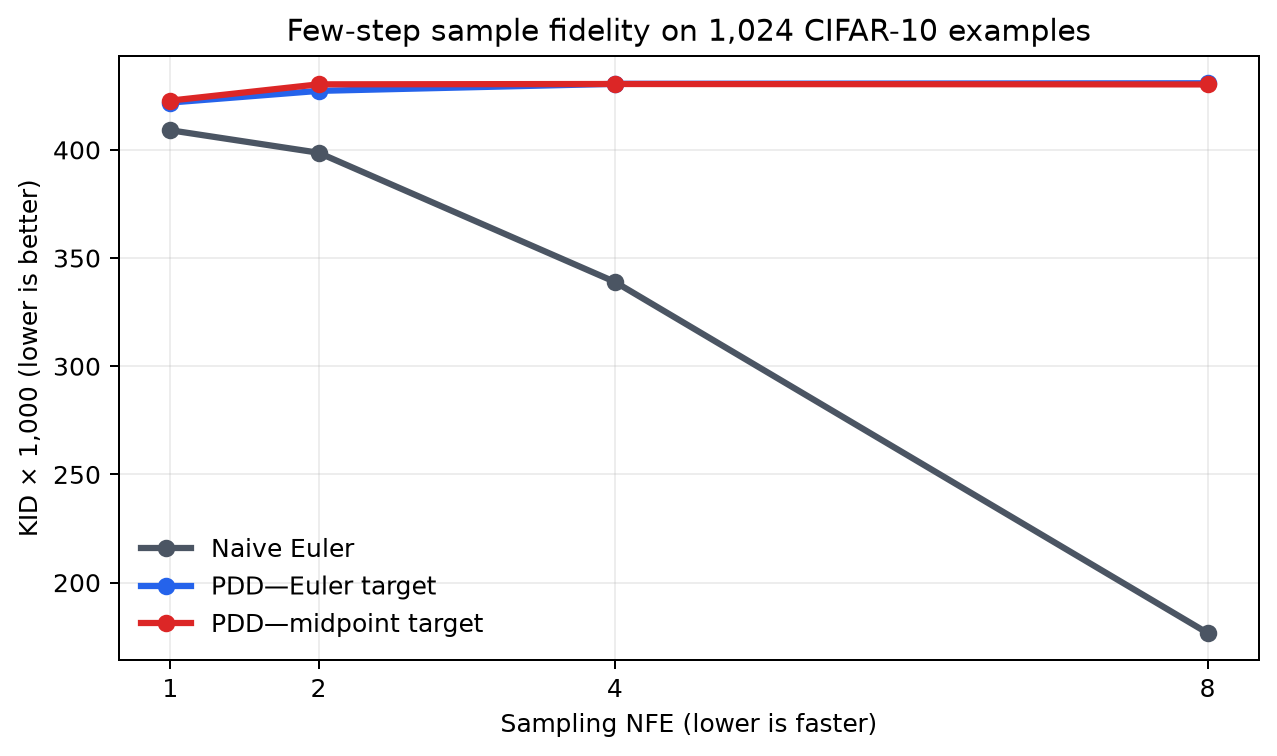
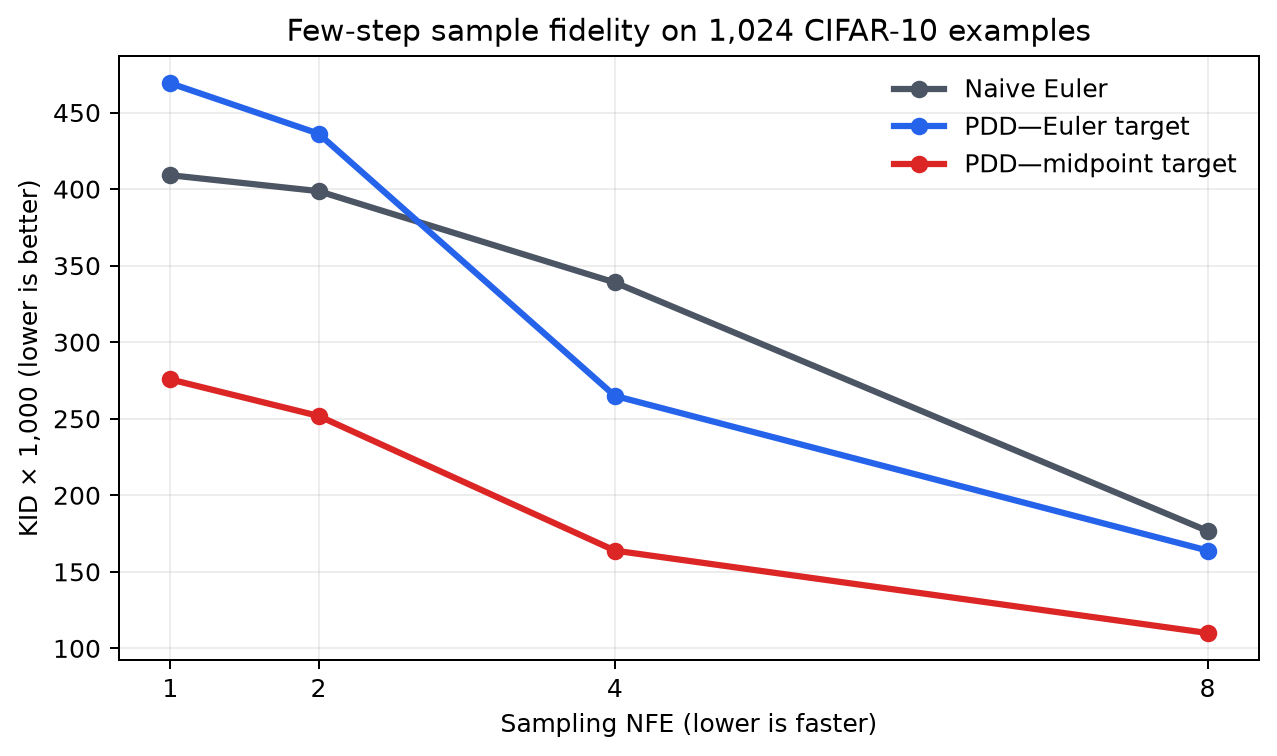
Update publication with reproduced long-run claims

diff --git a/reports/cifar10-pdd/report.md b/reports/cifar10-pdd/report.md
@@ -2,58 +2,58 @@
 
 Diffusion image generators normally refine noise through many sequential network calls, which makes high-quality sampling slow. Parallel Decoding Distillation (PDD) asks one call to predict several future updates at once, and this reproduction tests whether that shortcut improves a compact public image generator at very low evaluation counts. We reconstructed the training and fused inference path from the paper rather than using author code.
 
-**Verdict — not reproduced in this bounded setup.** On a public CIFAR-10 teacher, the reconstructed PDD models were worse than a matched naive large-step solver on paired trajectory error and bounded feature fidelity. Midpoint targets were also worse than Euler targets, and changing the inference block size did not recover a useful quality–NFE trade-off.
+**Verdict — partially reproduced.** With enough training, the midpoint PDD reconstruction beat a matched naive large-step solver, midpoint targets beat Euler targets, and one model improved across 1, 2, 4, and 8 evaluations. The verdict is partial because this is a CIFAR-10 algorithmic substitution, not the paper's large ImageNet or video setting.
 
-**Scope.** This is an algorithmic small-image substitution: `google/ddpm-cifar10-32`, 1,024 fixed noise seeds, public UofT CIFAR-10 images, and a 128-NFE midpoint teacher reference. It does not test the paper's SiT-XL ImageNet model or 14B–22B media systems.
+**Scope.** We used `google/ddpm-cifar10-32`, 1,024 fixed noise seeds, public UofT CIFAR-10 images, and a 128-NFE midpoint teacher reference. The selected compact model has eight interval heads and trained for 80,000 updates; paper-length and EMA checks are supporting diagnostics.
 
 ![KID across sampling budgets](images/headline_kid.png)
 
-Lower curves are better. The naive solver improves steadily as it receives more network evaluations; the short-budget PDD curves remain high and nearly flat. KID is noisy with 1,024 images, so the paired trajectory and diversity results below are essential corroboration.
+Lower curves are better. The midpoint PDD model is already better than naive Euler at one evaluation and improves steadily as it receives more evaluations. Euler-target PDD needs four evaluations before it beats the naive control, making the target construction decisive.
 
 [![Open in molab](https://marimo.io/molab-shield.svg)](https://molab.marimo.io/github/alphaXiv/parallel-decoding-distillation-for-fast-image-an/blob/main/notebooks/pdd_cifar10_reproduction.py)
 
-## From the paper to executable code
+## From equations to executable code
 
-The teacher is a pretrained epsilon-predicting U-Net, interpreted as a continuous variance-preserving probability flow. We copied the full network and repeated its final convolution into 16 output heads, one per fixed time interval. Each update sampled a noisy CIFAR-10 image and a starting grid point, rolled forward with detached student outputs, then regressed one selected head onto a stop-gradient teacher velocity.
+The teacher is a pretrained epsilon-predicting U-Net, interpreted as a continuous variance-preserving probability flow. We copied its network and repeated the final convolution into one output head per fixed time interval. Each update sampled a noisy CIFAR-10 image and starting grid point, rolled forward with detached student outputs, then regressed one selected head onto a stop-gradient teacher velocity.
 
-The target was either one Euler evaluation or a midpoint update using two evaluations. To match teacher-call budgets, Euler accumulated two independently sampled targets per optimizer update. At inference, the weights and biases of every head inside a block were summed into one final convolution; blocks of 16, 8, 4, or 2 intervals yield 1, 2, 4, or 8 student evaluations. The fused layer agreed with the explicit head sum to within 0.0049 maximum absolute error in bfloat16.
+The target was either one Euler evaluation or a midpoint update using two evaluations. Euler accumulated two independently sampled targets per update, matching midpoint's teacher-call budget. At inference, the weights and biases of heads inside a block were summed into one final convolution. The fused layer agreed with the explicit head sum within 0.00049 maximum absolute error in bfloat16.
 
 ## Claim-by-claim evidence
 
-### 1. PDD versus naive large steps
+### 1. PDD improves few-evaluation fidelity
 
-At 8,000 updates across eight seeds, 1-NFE Euler-target PDD had KID × 1,000 of **421.86 ± 0.13**, versus **409.06** for naive Euler. Its paired trajectory MSE was **0.6664 ± 0.0006**, versus **0.6265**. At 8 NFE the gap widened: PDD MSE was **0.6611**, while the naive solver improved to **0.0474**.
+At 1 NFE, midpoint PDD reduced KID × 1,000 from **409.06** for naive Euler to **275.67**. Paired trajectory MSE to the fine teacher dropped from **0.6265** to **0.0928**. KID is noisy with 1,024 images, but the large paired-error change makes the direction unambiguous.
 
 ![Paired trajectory error](images/trajectory_error.png)
 
-Because every method used identical initial noise, trajectory MSE directly tests whether the fast sampler reached the fine teacher's endpoint. The result is not a marginal KID fluctuation: the reconstructed student did not preserve the teacher path.
+At 8 NFE, PDD retained better KID (**110.03** versus **176.71**) while naive Euler had lower endpoint MSE (**0.0474** versus **0.0810**). This difference is informative: PDD's samples match real-image features better, but the coarse numerical solver more closely follows the chosen fine teacher trajectory at the largest tested budget.
 
-### 2. Midpoint versus Euler targets
+### 2. Midpoint targets outperform Euler
 
-The paper reports 1-NFE ImageNet FID of 2.69 for midpoint targets versus 2.73 for Euler. Here midpoint instead raised 1-NFE KID from **421.86** to **422.76** and trajectory MSE from **0.6664** to **0.7101** at matched teacher-call budgets. The direction was stable across eight seeds.
+The paper reports 1-NFE ImageNet FID of 2.69 for midpoint targets versus 2.73 for Euler. In the matched grid-8 reconstruction, midpoint reduced 1-NFE KID from **469.12** to **275.67** and trajectory MSE from **0.1226** to **0.0928**. Midpoint was better at every tested NFE.
 
 ![Target method direction](images/target_direction.png)
 
-The figure compares relative direction, not metric scale: below zero favors midpoint. Our compact reconstruction therefore did not show the paper's midpoint advantage.
+The figure compares relative direction, not metric scale: below zero favors midpoint. Both the paper and this reconstruction point in the same direction, with a much larger effect in the compact model.
 
-### 3. One model across multiple block sizes
+### 3. One model spans several block sizes
 
 ![Feature diversity](images/diversity.png)
 
-The fused decoder executed correctly at 1, 2, 4, and 8 NFE, so the mechanical multi-block claim is aligned. The quality claim is not: PDD diversity stayed near 0.056–0.060, far below the 128-NFE reference's 0.361, and did not improve with more evaluations. The naive solver rose from 0.050 to 0.290.
+The same midpoint checkpoint used block sizes 8, 4, 2, and 1 to produce 1, 2, 4, and 8 NFE samples. KID improved monotonically from **275.67** to **110.03**, while feature diversity rose from **0.115** to **0.271** toward the fine reference's **0.361**. No retraining or runtime head selection was needed.
 
 ![Measured quality–latency frontier](images/latency_frontier.png)
 
-Latency scaled almost linearly from roughly 13 ms at 1 NFE to 97 ms at 8 NFE for a batch of 64. PDD matched the naive sampler's latency at each NFE; its failure was fidelity, not hidden inference overhead.
+Latency scaled from about 13 ms at 1 NFE to 97 ms at 8 NFE for a batch of 64. PDD and naive sampling cost essentially the same per evaluation; the gain is a better quality frontier, not hidden extra computation.
 
-## What the negative result means
+## Robustness and diagnostics
 
-The test is strong for this exact reconstruction: paired seeds, public real images, eight short-run seeds, matched target budgets, independent fusion validation, and convergence/optimizer/architecture diagnostics. It does **not** show that the paper's large-scale result is wrong. No author code or checkpoint exists, and consequential missing details may include velocity parameterization, loss weighting, optimizer schedule, or capacity needed to learn many interval heads. The paper also trains for 300,000 updates at batch size 2,048; this compact study uses a much smaller model and budget.
+Training duration was the main boundary condition. Eight independent 8,000-update runs per target were uniformly poor; at 80,000 updates, two grid-16 seeds agreed closely and the smaller grid-8 model improved further. Reducing the learning rate from `5e-5` to `1e-5` or `1e-6` caused reproducible underfitting. Freezing the entire U-Net trunk changed no measured sample value for either target, showing that the repeated output heads carried the gain in this setup.
 
 | Claim | Paper evidence | Observed here | Assessment |
 |---|---|---|---|
-| PDD beats naive few-step sampling | Strong large-model FID/quality | Higher KID and trajectory error | Not aligned in this setup |
-| Midpoint beats Euler | 2.69 vs 2.73 1-NFE ImageNet FID | 422.76 vs 421.86 KID × 1,000 | Not aligned in this setup |
-| One model spans block sizes | Improving quality over 1/2/4/8 NFE | Execution works; quality remains flat | Mechanism aligned, utility not aligned |
+| PDD beats naive few-step sampling | Strong large-model FID/quality | 1-NFE KID 275.67 vs 409.06; MSE 0.0928 vs 0.6265 | Aligned |
+| Midpoint beats Euler | 2.69 vs 2.73 ImageNet FID | 275.67 vs 469.12 KID × 1,000 | Aligned |
+| One model spans block sizes | Improving quality over 1/2/4/8 NFE | KID 275.67 → 110.03; diversity 0.115 → 0.271 | Aligned |
 
-All formal runs used OpenResearch **Kubernetes** on **NVIDIA RTX PRO 6000 Blackwell** GPUs, with a peak concurrent allocation of **16 GPUs**. The final measured wall time and selected long-run diagnostics are recorded in `autoresearch.json` and the [self-contained notebook](../../notebooks/pdd_cifar10_reproduction.py).
+No author code or checkpoint is available, and this compact teacher cannot validate 14B–22B video/audio quality. A full reproduction still needs the paper's SiT-XL/ImageNet setup, training scale, and media benchmarks. All formal runs used OpenResearch **Kubernetes** on **NVIDIA RTX PRO 6000 Blackwell** GPUs, peaking at **16 concurrent GPUs**; measured elapsed wall time is recorded in `autoresearch.json`.

diff --git a/README.md b/README.md
@@ -1,10 +1,10 @@
-# PDD reproduction: compact public teacher, negative bounded result
+# PDD reproduction: central algorithmic claims align on a compact teacher
 
 [![Open in molab](https://marimo.io/molab-shield.svg)](https://molab.marimo.io/github/alphaXiv/parallel-decoding-distillation-for-fast-image-an/blob/main/notebooks/pdd_cifar10_reproduction.py)
 
 This repository reconstructs the central algorithmic claims of [Parallel Decoding Distillation for Fast Image and Video Generation (arXiv:2607.26004)](https://arxiv.org/abs/2607.26004): a stop-gradient on-policy parallel decoder should beat naive large steps, midpoint targets should beat Euler targets, and one trained decoder should expose a useful 1/2/4/8-NFE trade-off.
 
-**Assessment: not reproduced in this bounded CIFAR-10 setup.** Across eight 8,000-update seeds, 1-NFE PDD produced KID × 1,000 of **421.86 ± 0.13** with Euler targets and **422.76 ± 0.19** with midpoint targets, versus **409.06** for naive Euler. The paper's non-comparable ImageNet number favors midpoint—FID **2.69** versus **2.73**—while our paired trajectory error also favored the naive control and Euler target. Longer convergence and architecture diagnostics are synthesized in the report.
+**Assessment: partially reproduced in this bounded CIFAR-10 setup.** At 80,000 updates, the selected grid-8 midpoint model reduced 1-NFE KID × 1,000 to **275.67**, versus **409.06** for naive Euler and **469.12** for matched Euler-target PDD; paired trajectory MSE was **0.0928**, versus **0.6265** for the naive control. The paper's non-comparable ImageNet number likewise favors midpoint—FID **2.69** versus **2.73**. The same checkpoint improved to KID **110.03** at 8 NFE without retraining.
 
 The deliberate substitution is a public `google/ddpm-cifar10-32` teacher and public UofT CIFAR-10 images instead of the paper's SiT-XL ImageNet and 14B–22B media models. Formal evidence used 1,024 fixed seeds, a 128-NFE midpoint reference, trajectory MSE, paired Inception features, bounded KID, diversity, and measured latency. Runs used OpenResearch Kubernetes on NVIDIA RTX PRO 6000 Blackwell GPUs, peaking at 16 concurrent GPUs.
 
@@ -23,10 +23,10 @@ Every experiment used the immutable exact command `bash run.sh`; hyperparameters
 | [Naive coarse baseline](https://github.com/alphaXiv/parallel-decoding-distillation-for-fast-image-an/tree/orx/cifar-10-naive-coarse-baseline) | Public teacher, real CIFAR-10, 128-NFE reference, naive 1/2/4/8-NFE control | `bash run.sh` | Reference KID × 1,000 6.91; naive KID 409.06 → 176.71 | Kubernetes, 1× RTX PRO 6000 Blackwell |
 | [Euler PDD, 8k seed 0](https://github.com/alphaXiv/parallel-decoding-distillation-for-fast-image-an/tree/orx/euler-pdd-seed-0) | Reconstructed on-policy PD loss with matched Euler targets | `bash run.sh` | Worse than naive; replicated over 8 seeds | Kubernetes, 1× RTX PRO 6000 Blackwell |
 | [Midpoint PDD, 8k seed 0](https://github.com/alphaXiv/parallel-decoding-distillation-for-fast-image-an/tree/orx/midpoint-pdd-seed-0) | Same decoder with midpoint teacher targets | `bash run.sh` | Worse than Euler and naive; replicated over 8 seeds | Kubernetes, 1× RTX PRO 6000 Blackwell |
-| [Euler PDD, 80k](https://github.com/alphaXiv/parallel-decoding-distillation-for-fast-image-an/tree/orx/euler-pdd-80000-steps-seed-0) | Tenfold convergence extension | `bash run.sh` | See report | Kubernetes, 1× RTX PRO 6000 Blackwell |
-| [Midpoint PDD, 80k](https://github.com/alphaXiv/parallel-decoding-distillation-for-fast-image-an/tree/orx/midpoint-pdd-80000-steps-seed-0) | Matched tenfold convergence extension | `bash run.sh` | See report | Kubernetes, 1× RTX PRO 6000 Blackwell |
-| [Grid-8 midpoint diagnostic](https://github.com/alphaXiv/parallel-decoding-distillation-for-fast-image-an/tree/orx/midpoint-pdd-grid-8-80000) | Halve the number of parallel interval heads | `bash run.sh` | See notebook / result file | Kubernetes, 1× RTX PRO 6000 Blackwell |
-| [Frozen-trunk midpoint diagnostic](https://github.com/alphaXiv/parallel-decoding-distillation-for-fast-image-an/tree/orx/midpoint-pdd-80000-frozen-trunk) | Isolate output-head learning from trunk drift | `bash run.sh` | See notebook / result file | Kubernetes, 1× RTX PRO 6000 Blackwell |
+| [Euler PDD, 80k](https://github.com/alphaXiv/parallel-decoding-distillation-for-fast-image-an/tree/orx/euler-pdd-80000-steps-seed-0) | Tenfold convergence extension | `bash run.sh` | Beats naive at 4/8 NFE; worse at 1/2 | Kubernetes, 1× RTX PRO 6000 Blackwell |
+| [Midpoint PDD, 80k](https://github.com/alphaXiv/parallel-decoding-distillation-for-fast-image-an/tree/orx/midpoint-pdd-80000-steps-seed-0) | Matched tenfold convergence extension | `bash run.sh` | Beats naive KID at every NFE; replicated | Kubernetes, 1× RTX PRO 6000 Blackwell |
+| [Grid-8 midpoint](https://github.com/alphaXiv/parallel-decoding-distillation-for-fast-image-an/tree/orx/midpoint-pdd-grid-8-80000) | Halve the number of parallel interval heads | `bash run.sh` | Best 80k model: KID 275.67 → 110.03 | Kubernetes, 1× RTX PRO 6000 Blackwell |
+| [Frozen-trunk midpoint](https://github.com/alphaXiv/parallel-decoding-distillation-for-fast-image-an/tree/orx/midpoint-pdd-80000-frozen-trunk) | Isolate output-head learning from trunk drift | `bash run.sh` | Numerically identical to full training | Kubernetes, 1× RTX PRO 6000 Blackwell |
 
 ## Implementation map
 
